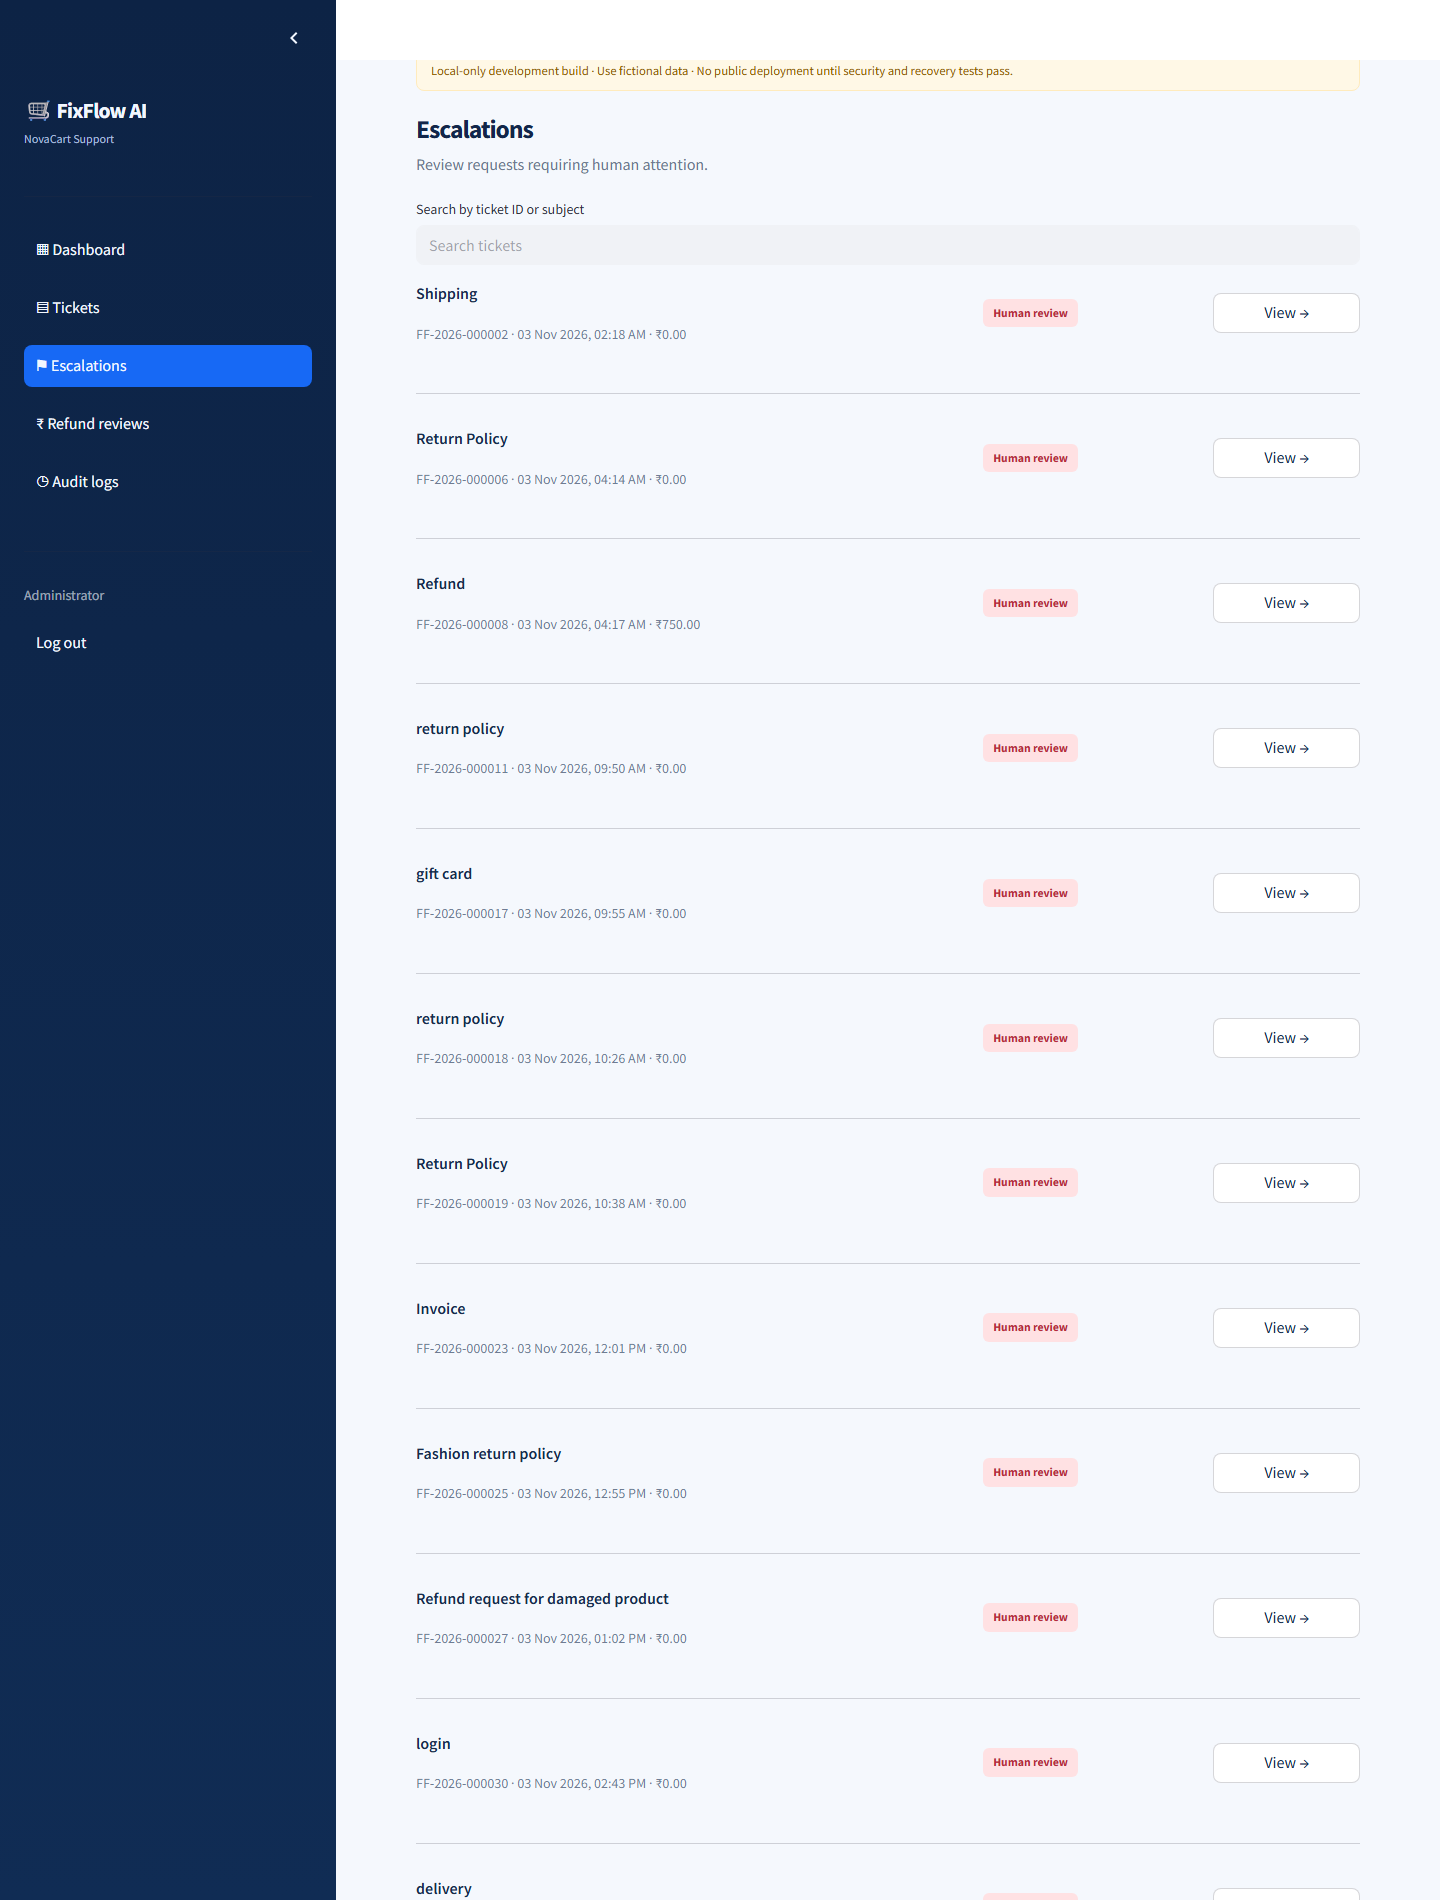
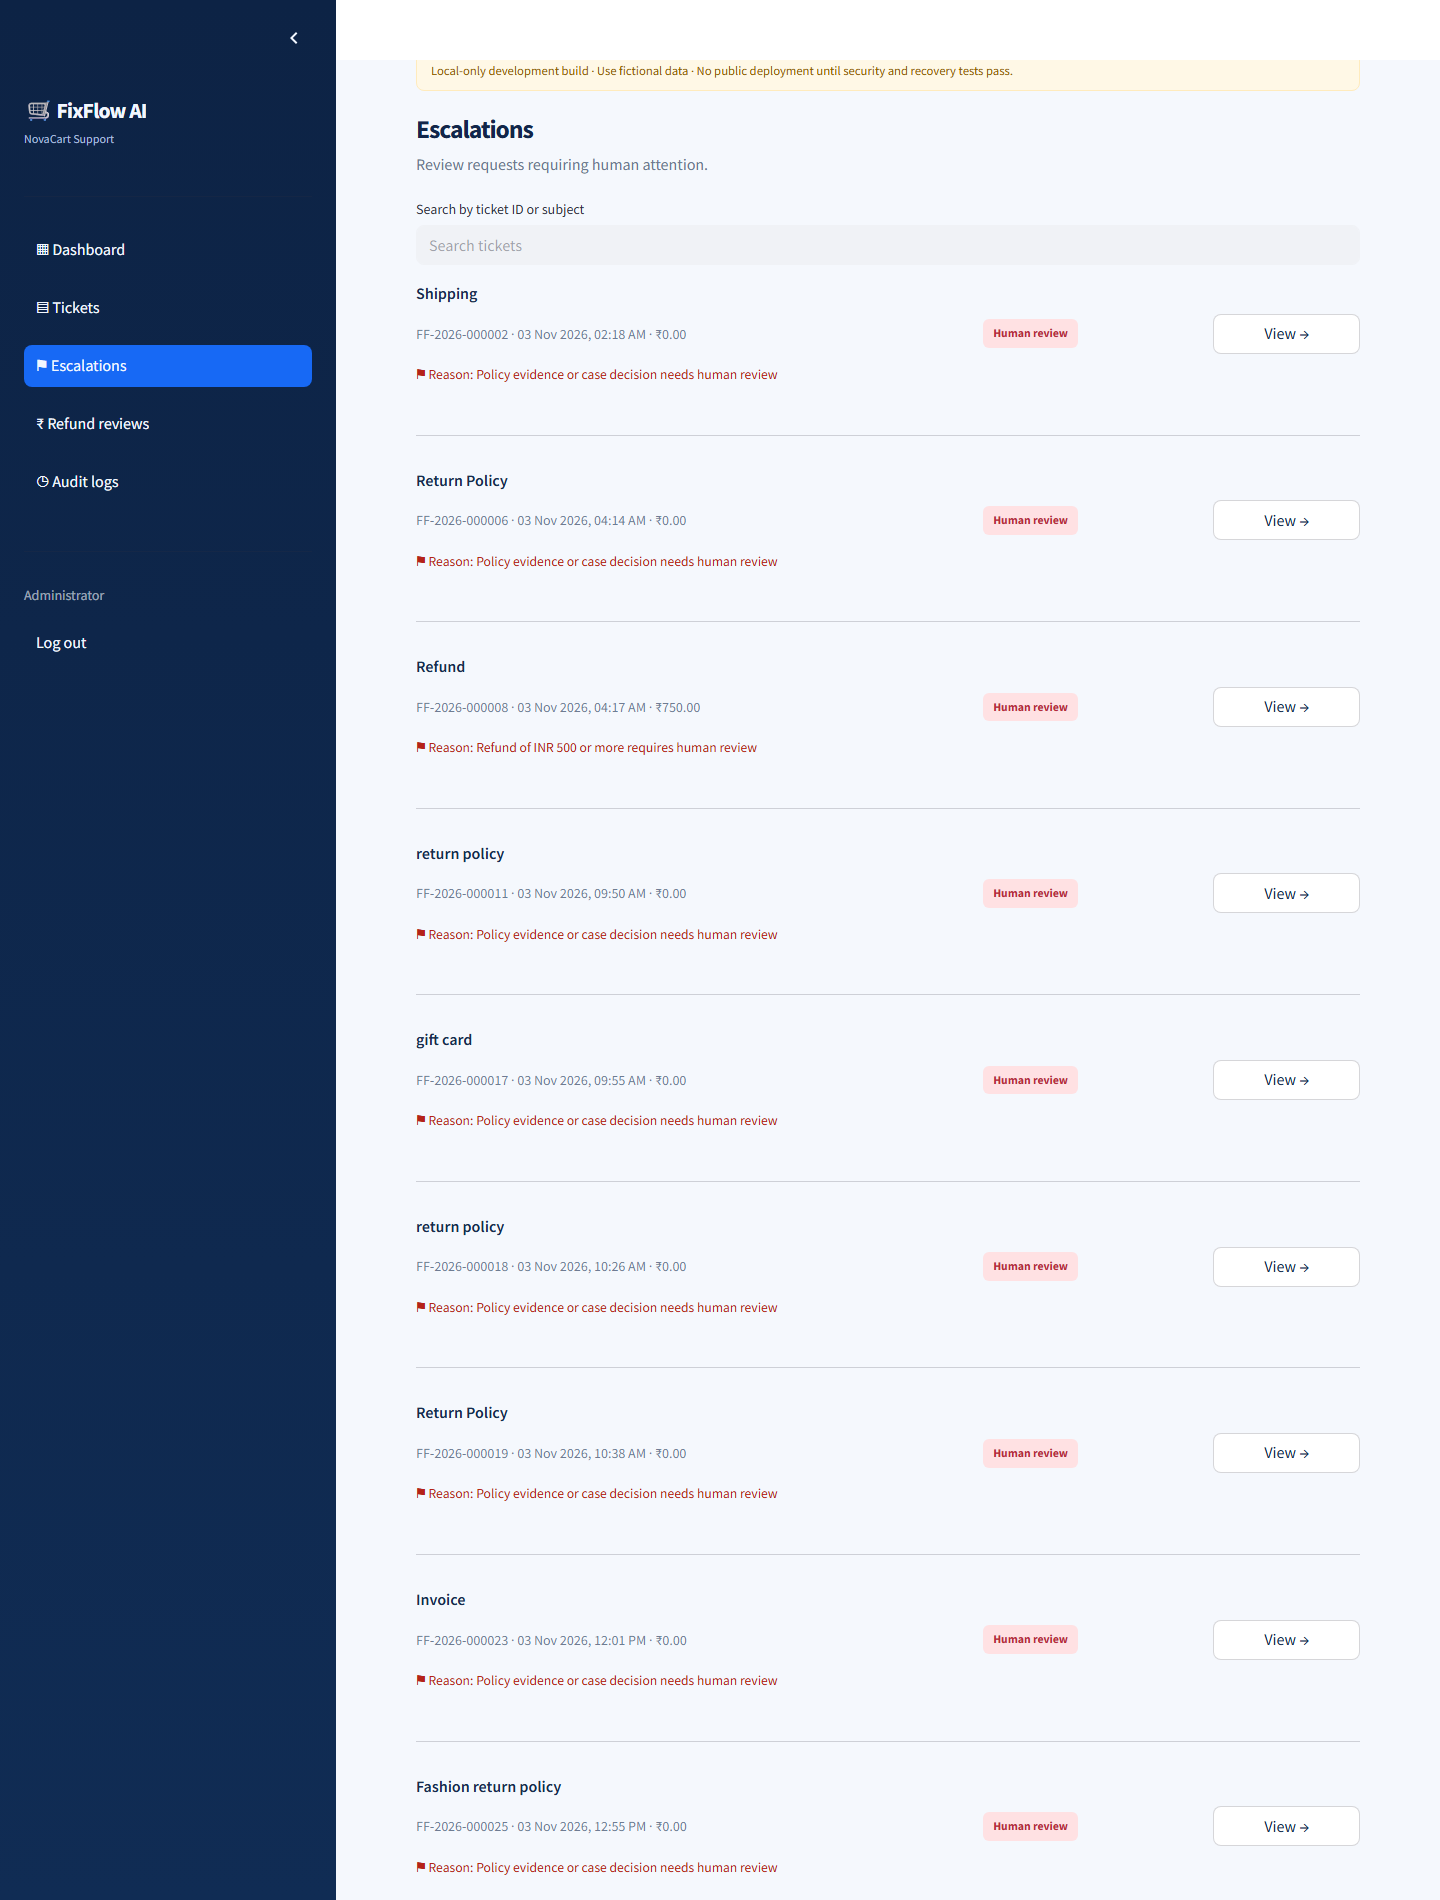
feat: show the escalation reason on every admin queue row
Escalated tickets in the admin queue now show why they need a human
(for example 'Refund of INR 500 or more requires human review'), using
the same wording as the ticket log; a test keeps the two lists identical.
Escalation-queue screenshot retaken; test counts updated.

diff --git a/frontend/ticket_review_display.py b/frontend/ticket_review_display.py
@@ -28,3 +28,23 @@ def review_message(ticket):
                 'No replacement or refund has been approved or dispatched.')
     return ('This ticket requires human review before a response or action can be '
             'confirmed. No refund or payment has been executed.')
+
+
+# Plain-language escalation reasons for admin lists. Kept identical to
+# backend/services/complaint_log.py REASONS (a test checks they match); the
+# frontend image does not ship the backend package.
+ESCALATION_REASONS = {
+    'REFUND_GE_500': 'Refund of INR 500 or more requires human review',
+    'REFUND_AMOUNT_UNVERIFIED': 'Refund amount unclear or conflicting; needs confirmation',
+    'REFUND_CURRENCY_UNCERTAIN': 'Refund currency unclear; needs confirmation',
+    'FRAUD': 'Possible fraud reported',
+    'LEGAL': 'Legal threat or legal action mentioned',
+    'PAYMENT_DISPUTE': 'Payment dispute or duplicate charge reported',
+}
+DEFAULT_ESCALATION_REASON = 'Policy evidence or case decision needs human review'
+
+
+def escalation_reason(ticket):
+    """Why an escalated ticket is waiting for a human (risk flags first)."""
+    codes = [c for c in (ticket.get('risk') or '').split(',') if c]
+    return '; '.join(ESCALATION_REASONS.get(c, c) for c in codes) or DEFAULT_ESCALATION_REASON

diff --git a/frontend/app.py b/frontend/app.py
@@ -9,7 +9,7 @@ from datetime import datetime
 from pathlib import Path
 import streamlit as st
 from frontend.api_client import call, BASE, ApiError, DEFAULT_MESSAGES, SERVER_ERROR
-from frontend.ticket_review_display import review_message
+from frontend.ticket_review_display import escalation_reason, review_message
 from frontend.refund_decision_draft import decision_response_draft
 
 st.set_page_config(page_title="FixFlow AI | NovaCart Support", page_icon="🛒", layout="wide", initial_sidebar_state="expanded")
@@ -126,6 +126,9 @@ def ticket_list(items, admin=False, key_prefix="tickets"):
             if admin:
                 sub += f" · ₹{float(t.get('claimed_amount') or 0):,.2f}"
             st.caption(sub)
+            if admin and t.get("status") == "ESCALATED":
+                st.markdown(f'<span style="color:#b42318;font-size:0.85rem">⚑ Reason: {safe(escalation_reason(t))}</span>',
+                            unsafe_allow_html=True)
         with b:
             st.markdown(pill(t.get("status")), unsafe_allow_html=True)
         with c:

diff --git a/tests/test_logging_ui.py b/tests/test_logging_ui.py
@@ -391,3 +391,12 @@ def test_log_prefers_query_agent_and_risk_keeps_urgency_high(isolated):
     assert _rows()[0]['urgency'] == 'High'
     # A stale job (lease lost) never overwrites the classification.
     assert record_query_classification({**job, 'lease': 'other'}, [message]) is False
+
+
+def test_queue_escalation_reasons_match_the_log():
+    from backend.services.complaint_log import REASONS
+    from frontend.ticket_review_display import ESCALATION_REASONS, DEFAULT_ESCALATION_REASON, escalation_reason
+    assert ESCALATION_REASONS == REASONS  # frontend copy must not drift from the log
+    assert escalation_reason({'risk': 'LEGAL,PAYMENT_DISPUTE'}) == (
+        'Legal threat or legal action mentioned; Payment dispute or duplicate charge reported')
+    assert escalation_reason({'risk': ''}) == DEFAULT_ESCALATION_REASON

diff --git a/README.md b/README.md
@@ -176,7 +176,7 @@ The root `app.py` is a thin launcher for the Streamlit UI in `frontend/app.py`. 
 
 ### Test layout
 
-`tests/` holds **23 feature-grouped files** (921 offline tests) plus `tests/conftest.py`. The conftest makes a plain `python -m pytest` **offline and side-effect free**: unless a live flag is set, it replaces the OpenAI/Serper keys with dummies, points OpenAI at an unroutable address and disables SMTP, so tests can never make paid calls or send email.
+`tests/` holds **23 feature-grouped files** (922 offline tests) plus `tests/conftest.py`. The conftest makes a plain `python -m pytest` **offline and side-effect free**: unless a live flag is set, it replaces the OpenAI/Serper keys with dummies, points OpenAI at an unroutable address and disables SMTP, so tests can never make paid calls or send email.
 
 | File | Covers |
 | --- | --- |
@@ -207,7 +207,7 @@ $env:FIXFLOW_CUSTOMER_INDEX_MODE = "approved_only"; python -m pytest -q tests/te
 
 | Batch (run 2026-11-05) | Result |
 | --- | --- |
-| Full offline suite | **921 passed, 36 skipped** (skipped = opt-in live tests, not passes) |
+| Full offline suite | **922 passed, 36 skipped** (skipped = opt-in live tests, not passes) |
 | Approved-only lane | **35 passed** |
 
 ### Live acceptance (opt-in, uses OpenAI)
